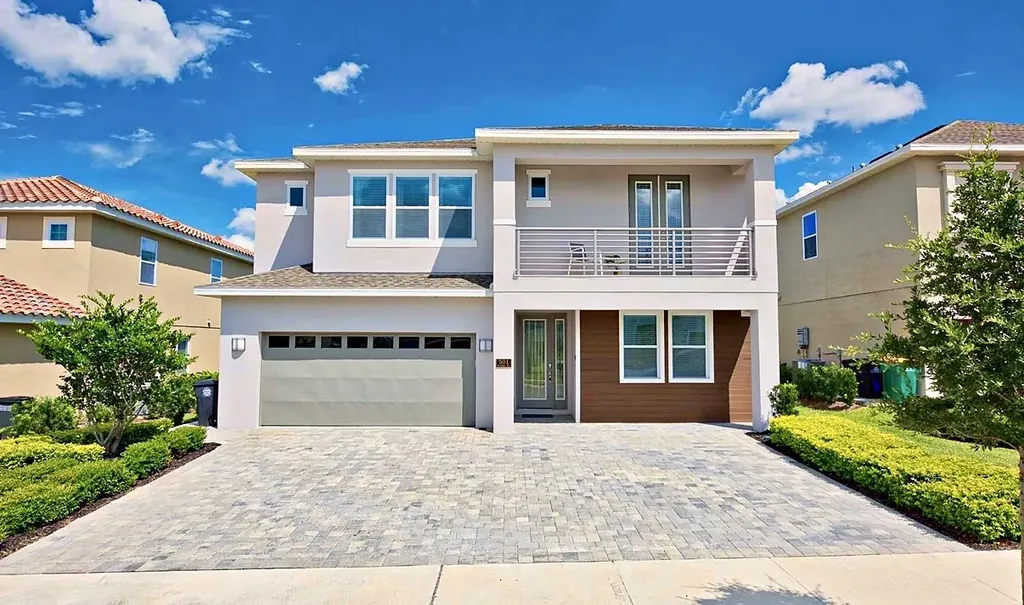
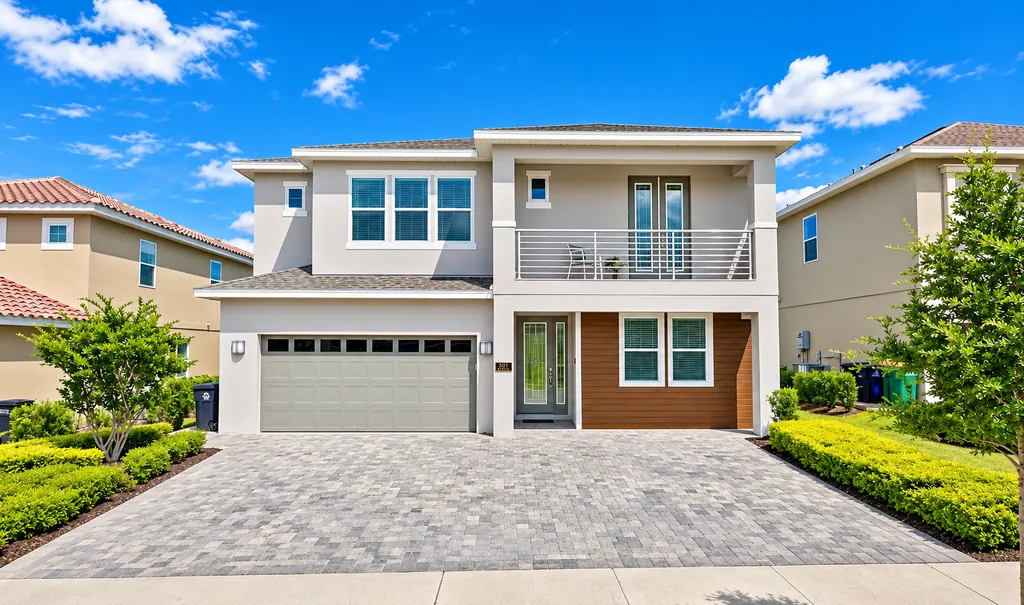
Replace front exterior photo with the enhanced version

diff --git a/index.html b/index.html
@@ -9,7 +9,7 @@
 
   <meta property="og:title" content="Villa Serena · 8-Bedroom Private Pool Villa">
   <meta property="og:description" content="8 bedrooms · 8 bathrooms · 13 beds · private pool. Book your family's Orlando stay direct.">
-  <meta property="og:image" content="assets/img/pool-lanai.jpg?v=20">
+  <meta property="og:image" content="assets/img/pool-lanai.jpg?v=21">
   <meta property="og:type" content="website">
 
   <link rel="icon" href="assets/favicon.svg" type="image/svg+xml">
@@ -17,8 +17,8 @@
   <link rel="preconnect" href="https://fonts.gstatic.com" crossorigin>
   <link href="https://fonts.googleapis.com/css2?family=Newsreader:ital,opsz,wght@0,6..72,400;0,6..72,500;1,6..72,400&family=Instrument+Sans:wght@400;500;600&display=swap" rel="stylesheet">
 
-  <link rel="preload" as="image" href="assets/img/pool-lanai-1616.webp?v=20"
-        imagesrcset="assets/img/pool-lanai-640.webp?v=20 640w, assets/img/pool-lanai-1024.webp?v=20 1024w, assets/img/pool-lanai-1616.webp?v=20 1616w"
+  <link rel="preload" as="image" href="assets/img/pool-lanai-1616.webp?v=21"
+        imagesrcset="assets/img/pool-lanai-640.webp?v=21 640w, assets/img/pool-lanai-1024.webp?v=21 1024w, assets/img/pool-lanai-1616.webp?v=21 1616w"
         imagesizes="100vw" type="image/webp">
   <link rel="stylesheet" href="css/styles.css">
 </head>
@@ -79,9 +79,9 @@
   <div class="hero-media">
     <picture>
       <source type="image/webp"
-              srcset="assets/img/pool-lanai-640.webp?v=20 640w, assets/img/pool-lanai-1024.webp?v=20 1024w, assets/img/pool-lanai-1616.webp?v=20 1616w"
+              srcset="assets/img/pool-lanai-640.webp?v=21 640w, assets/img/pool-lanai-1024.webp?v=21 1024w, assets/img/pool-lanai-1616.webp?v=21 1616w"
               sizes="100vw">
-      <img src="assets/img/pool-lanai.jpg?v=20" alt="The villa's private pool and spa with sun loungers and a covered lanai" width="1616" height="967" fetchpriority="high">
+      <img src="assets/img/pool-lanai.jpg?v=21" alt="The villa's private pool and spa with sun loungers and a covered lanai" width="1616" height="967" fetchpriority="high">
     </picture>
   </div>
   <div class="hero-shade" aria-hidden="true"></div>
@@ -117,14 +117,14 @@
     <div class="welcome-media reveal">
       <figure class="wm-main">
         <picture>
-          <source type="image/webp" srcset="assets/img/exterior-front-640.webp?v=20 640w, assets/img/exterior-front-1024.webp?v=20 1024w, assets/img/exterior-front-1206.webp?v=20 1206w" sizes="(min-width: 960px) 40vw, 90vw">
-          <img src="assets/img/exterior-front.jpg?v=20" alt="Front exterior of the two-storey villa with a paver driveway" width="1206" height="712" loading="lazy" decoding="async">
+          <source type="image/webp" srcset="assets/img/exterior-front-640.webp?v=21 640w, assets/img/exterior-front-1024.webp?v=21 1024w, assets/img/exterior-front-1600.webp?v=21 1600w, assets/img/exterior-front-1632.webp?v=21 1632w" sizes="(min-width: 960px) 40vw, 90vw">
+          <img src="assets/img/exterior-front.jpg?v=21" alt="Front exterior of the two-storey villa with a paver driveway" width="1632" height="964" loading="lazy" decoding="async">
         </picture>
       </figure>
       <figure class="wm-accent">
         <picture>
-          <source type="image/webp" srcset="assets/img/dining-living-640.webp?v=20 640w, assets/img/dining-living-1024.webp?v=20 1024w" sizes="(min-width: 960px) 22vw, 50vw">
-          <img src="assets/img/dining-living.jpg?v=20" alt="Open-plan dining area with a large table and the living room beyond" width="2560" height="1920" loading="lazy" decoding="async">
+          <source type="image/webp" srcset="assets/img/dining-living-640.webp?v=21 640w, assets/img/dining-living-1024.webp?v=21 1024w" sizes="(min-width: 960px) 22vw, 50vw">
+          <img src="assets/img/dining-living.jpg?v=21" alt="Open-plan dining area with a large table and the living room beyond" width="2560" height="1920" loading="lazy" decoding="async">
         </picture>
       </figure>
           </div>
@@ -135,15 +135,15 @@
 <section class="photo-band" aria-label="The kitchen and living room">
   <figure>
     <picture>
-      <source type="image/webp" srcset="assets/img/kitchen-640.webp?v=20 640w, assets/img/kitchen-1024.webp?v=20 1024w, assets/img/kitchen-1600.webp?v=20 1600w, assets/img/kitchen-1634.webp?v=20 1634w" sizes="(min-width: 760px) 50vw, 100vw">
-      <img src="assets/img/kitchen.jpg?v=20" alt="Kitchen with dark cabinets, stainless appliances and an island with four bar stools" width="1634" height="962" loading="lazy" decoding="async">
+      <source type="image/webp" srcset="assets/img/kitchen-640.webp?v=21 640w, assets/img/kitchen-1024.webp?v=21 1024w, assets/img/kitchen-1600.webp?v=21 1600w, assets/img/kitchen-1634.webp?v=21 1634w" sizes="(min-width: 760px) 50vw, 100vw">
+      <img src="assets/img/kitchen.jpg?v=21" alt="Kitchen with dark cabinets, stainless appliances and an island with four bar stools" width="1634" height="962" loading="lazy" decoding="async">
     </picture>
     <figcaption>Kitchen</figcaption>
   </figure>
   <figure>
     <picture>
-      <source type="image/webp" srcset="assets/img/living-room-640.webp?v=20 640w, assets/img/living-room-1024.webp?v=20 1024w, assets/img/living-room-1536.webp?v=20 1536w" sizes="(min-width: 760px) 50vw, 100vw">
-      <img src="assets/img/living-room.jpg?v=20" alt="Living room with sectional sofa and sliding doors to the pool" width="1536" height="1024" loading="lazy" decoding="async">
+      <source type="image/webp" srcset="assets/img/living-room-640.webp?v=21 640w, assets/img/living-room-1024.webp?v=21 1024w, assets/img/living-room-1536.webp?v=21 1536w" sizes="(min-width: 760px) 50vw, 100vw">
+      <img src="assets/img/living-room.jpg?v=21" alt="Living room with sectional sofa and sliding doors to the pool" width="1536" height="1024" loading="lazy" decoding="async">
     </picture>
     <figcaption>Living room</figcaption>
   </figure>
@@ -250,20 +250,20 @@
     <div class="villa-band reveal">
       <figure>
         <picture>
-          <source type="image/webp" srcset="assets/img/bedroom-twin-beds-640.webp?v=20 640w, assets/img/bedroom-twin-beds-1024.webp?v=20 1024w, assets/img/bedroom-twin-beds-1446.webp?v=20 1446w" sizes="(min-width: 960px) 33vw, 100vw">
-          <img src="assets/img/bedroom-twin-beds.jpg?v=20" alt="Bedroom with two beds and a tall upholstered headboard" width="1446" height="1087" loading="lazy" decoding="async">
+          <source type="image/webp" srcset="assets/img/bedroom-twin-beds-640.webp?v=21 640w, assets/img/bedroom-twin-beds-1024.webp?v=21 1024w, assets/img/bedroom-twin-beds-1446.webp?v=21 1446w" sizes="(min-width: 960px) 33vw, 100vw">
+          <img src="assets/img/bedroom-twin-beds.jpg?v=21" alt="Bedroom with two beds and a tall upholstered headboard" width="1446" height="1087" loading="lazy" decoding="async">
         </picture>
       </figure>
       <figure>
         <picture>
-          <source type="image/webp" srcset="assets/img/bunk-room-640.webp?v=20 640w, assets/img/bunk-room-1024.webp?v=20 1024w, assets/img/bunk-room-1600.webp?v=20 1600w" sizes="(min-width: 960px) 33vw, 100vw">
-          <img src="assets/img/bunk-room.jpg?v=20" alt="Kids' bunk room with a mural wall" width="2560" height="1920" loading="lazy" decoding="async">
+          <source type="image/webp" srcset="assets/img/bunk-room-640.webp?v=21 640w, assets/img/bunk-room-1024.webp?v=21 1024w, assets/img/bunk-room-1600.webp?v=21 1600w" sizes="(min-width: 960px) 33vw, 100vw">
+          <img src="assets/img/bunk-room.jpg?v=21" alt="Kids' bunk room with a mural wall" width="2560" height="1920" loading="lazy" decoding="async">
         </picture>
       </figure>
       <figure>
         <picture>
-          <source type="image/webp" srcset="assets/img/bathroom-double-vanity-640.webp?v=20 640w, assets/img/bathroom-double-vanity-1024.webp?v=20 1024w, assets/img/bathroom-double-vanity-1600.webp?v=20 1600w, assets/img/bathroom-double-vanity-1645.webp?v=20 1645w" sizes="(min-width: 960px) 33vw, 100vw">
-          <img src="assets/img/bathroom-double-vanity.jpg?v=20" alt="Bathroom with a double vanity, glass shower and tub" width="1645" height="956" loading="lazy" decoding="async">
+          <source type="image/webp" srcset="assets/img/bathroom-double-vanity-640.webp?v=21 640w, assets/img/bathroom-double-vanity-1024.webp?v=21 1024w, assets/img/bathroom-double-vanity-1600.webp?v=21 1600w, assets/img/bathroom-double-vanity-1645.webp?v=21 1645w" sizes="(min-width: 960px) 33vw, 100vw">
+          <img src="assets/img/bathroom-double-vanity.jpg?v=21" alt="Bathroom with a double vanity, glass shower and tub" width="1645" height="956" loading="lazy" decoding="async">
         </picture>
       </figure>
     </div>
@@ -277,9 +277,9 @@
       <div class="amen-feature reveal">
         <figure class="amen-photo">
           <picture>
-            <source type="image/webp" media="(min-width: 641px) and (max-width: 960px)" srcset="assets/img/pool-deck-640.webp?v=20 640w, assets/img/pool-deck-1024.webp?v=20 1024w, assets/img/pool-deck-1206.webp?v=20 1206w" sizes="100vw">
-            <source type="image/webp" srcset="assets/img/pool-deck-tall-640.webp?v=20 640w, assets/img/pool-deck-tall-1024.webp?v=20 1024w, assets/img/pool-deck-tall-1086.webp?v=20 1086w" sizes="(min-width: 960px) 45vw, 100vw">
-            <img src="assets/img/pool-deck-tall.jpg?v=20" alt="Pool deck with spa, loungers and outdoor dining under a blue sky" width="1086" height="1448" loading="lazy" decoding="async">
+            <source type="image/webp" media="(min-width: 641px) and (max-width: 960px)" srcset="assets/img/pool-deck-640.webp?v=21 640w, assets/img/pool-deck-1024.webp?v=21 1024w, assets/img/pool-deck-1206.webp?v=21 1206w" sizes="100vw">
+            <source type="image/webp" srcset="assets/img/pool-deck-tall-640.webp?v=21 640w, assets/img/pool-deck-tall-1024.webp?v=21 1024w, assets/img/pool-deck-tall-1086.webp?v=21 1086w" sizes="(min-width: 960px) 45vw, 100vw">
+            <img src="assets/img/pool-deck-tall.jpg?v=21" alt="Pool deck with spa, loungers and outdoor dining under a blue sky" width="1086" height="1448" loading="lazy" decoding="async">
           </picture>
           <figcaption>
             <strong>Fully private pool area</strong>
@@ -337,29 +337,29 @@
     <div class="amen-strip reveal" aria-label="More of the villa">
       <figure>
         <picture>
-          <source type="image/webp" srcset="assets/img/sitting-area-640.webp?v=20 640w, assets/img/sitting-area-1024.webp?v=20 1024w, assets/img/sitting-area-1600.webp?v=20 1600w" sizes="(min-width: 960px) 25vw, 70vw">
-          <img src="assets/img/sitting-area.jpg?v=20" alt="Sitting area with two armchairs and large blue and gold artwork" width="2560" height="1920" loading="lazy" decoding="async">
+          <source type="image/webp" srcset="assets/img/sitting-area-640.webp?v=21 640w, assets/img/sitting-area-1024.webp?v=21 1024w, assets/img/sitting-area-1600.webp?v=21 1600w" sizes="(min-width: 960px) 25vw, 70vw">
+          <img src="assets/img/sitting-area.jpg?v=21" alt="Sitting area with two armchairs and large blue and gold artwork" width="2560" height="1920" loading="lazy" decoding="async">
         </picture>
         <figcaption>Sitting area</figcaption>
       </figure>
       <figure>
         <picture>
-          <source type="image/webp" srcset="assets/img/home-theater-640.webp?v=20 640w, assets/img/home-theater-1024.webp?v=20 1024w, assets/img/home-theater-1206.webp?v=20 1206w" sizes="(min-width: 960px) 25vw, 70vw">
-          <img src="assets/img/home-theater.jpg?v=20" alt="Home theater with a large screen and recliner seating" width="1206" height="800" loading="lazy" decoding="async">
+          <source type="image/webp" srcset="assets/img/home-theater-640.webp?v=21 640w, assets/img/home-theater-1024.webp?v=21 1024w, assets/img/home-theater-1206.webp?v=21 1206w" sizes="(min-width: 960px) 25vw, 70vw">
+          <img src="assets/img/home-theater.jpg?v=21" alt="Home theater with a large screen and recliner seating" width="1206" height="800" loading="lazy" decoding="async">
         </picture>
         <figcaption>Home theater</figcaption>
       </figure>
       <figure>
         <picture>
-          <source type="image/webp" srcset="assets/img/game-room-640.webp?v=20 640w, assets/img/game-room-1024.webp?v=20 1024w, assets/img/game-room-1600.webp?v=20 1600w" sizes="(min-width: 960px) 25vw, 70vw">
-          <img src="assets/img/game-room.jpg?v=20" alt="Game room with table tennis, foosball and an arcade cabinet" width="2560" height="1920" loading="lazy" decoding="async">
+          <source type="image/webp" srcset="assets/img/game-room-640.webp?v=21 640w, assets/img/game-room-1024.webp?v=21 1024w, assets/img/game-room-1600.webp?v=21 1600w" sizes="(min-width: 960px) 25vw, 70vw">
+          <img src="assets/img/game-room.jpg?v=21" alt="Game room with table tennis, foosball and an arcade cabinet" width="2560" height="1920" loading="lazy" decoding="async">
         </picture>
         <figcaption>Game room</figcaption>
       </figure>
       <figure>
         <picture>
-          <source type="image/webp" srcset="assets/img/dining-room-640.webp?v=20 640w, assets/img/dining-room-1024.webp?v=20 1024w, assets/img/dining-room-1600.webp?v=20 1600w" sizes="(min-width: 960px) 25vw, 70vw">
-          <img src="assets/img/dining-room.jpg?v=20" alt="Dining room with a large white table and chandelier" width="2560" height="1920" loading="lazy" decoding="async">
+          <source type="image/webp" srcset="assets/img/dining-room-640.webp?v=21 640w, assets/img/dining-room-1024.webp?v=21 1024w, assets/img/dining-room-1600.webp?v=21 1600w" sizes="(min-width: 960px) 25vw, 70vw">
+          <img src="assets/img/dining-room.jpg?v=21" alt="Dining room with a large white table and chandelier" width="2560" height="1920" loading="lazy" decoding="async">
         </picture>
         <figcaption>Dining</figcaption>
       </figure>
@@ -431,8 +431,8 @@
 <section class="book" id="book">
   <div class="book-media" aria-hidden="true">
     <picture>
-      <source type="image/webp" srcset="assets/img/exterior-front-640.webp?v=20 640w, assets/img/exterior-front-1024.webp?v=20 1024w, assets/img/exterior-front-1206.webp?v=20 1206w" sizes="100vw">
-      <img src="assets/img/exterior-front.jpg?v=20" alt="" width="1206" height="712" loading="lazy" decoding="async">
+      <source type="image/webp" srcset="assets/img/exterior-front-640.webp?v=21 640w, assets/img/exterior-front-1024.webp?v=21 1024w, assets/img/exterior-front-1600.webp?v=21 1600w, assets/img/exterior-front-1632.webp?v=21 1632w" sizes="100vw">
+      <img src="assets/img/exterior-front.jpg?v=21" alt="" width="1632" height="964" loading="lazy" decoding="async">
     </picture>
   </div>
   <div class="book-shade" aria-hidden="true"></div>

diff --git a/js/main.js b/js/main.js
@@ -17,7 +17,7 @@ const BOOKING_URL = "";
    -------------------------------------------------------------------------- */
 const PHOTOS = [
   { slug: "pool-lanai",            cat: "outdoor",   caption: "Private pool, spa & covered lanai",  w: 1616, size: "big", ws: [640, 1024, 1616] },
-  { slug: "exterior-front",        cat: "outdoor",   caption: "Welcome to the villa",               w: 1206, size: "wide" },
+  { slug: "exterior-front",        cat: "outdoor",   caption: "Welcome to the villa",               w: 1632, size: "wide", ws: [640, 1024, 1600, 1632] },
   { slug: "kitchen",               cat: "living",    caption: "Fully equipped kitchen",             w: 1634, ws: [640, 1024, 1600, 1634] },
   { slug: "home-theater",          cat: "fun",       caption: "Home theater",                       w: 1206 },
   { slug: "living-room",           cat: "living",    caption: "Living room",                        w: 1536, size: "wide", ws: [640, 1024, 1536] },
@@ -45,7 +45,7 @@ const PHOTOS = [
 ];
 const INITIAL_COUNT = 4;
 const IMG = "assets/img/";
-const IMG_V = "?v=20"; // bump when photos change so browsers fetch the new files
+const IMG_V = "?v=21"; // bump when photos change so browsers fetch the new files
 
 const widthsFor = (p) => p.ws || (p.w > 1206 ? [640, 1024, 1600, 2200] : [640, 1024, 1206]);
 const srcset = (p, max = Infinity) =>

diff --git a/README.md b/README.md
@@ -104,4 +104,4 @@ it, then repeat the polish and the wall recolour.
 
 Browsers keep photos for a day (see `vercel.json`). When a photo changes, bump the
 version tag so visitors get the new file right away: `IMG_V` at the top of `js/main.js`
-and every `?v=` in `index.html` (find and replace `?v=20` with `?v=21`).
+and every `?v=` in `index.html` (find and replace `?v=21` with `?v=22`).
